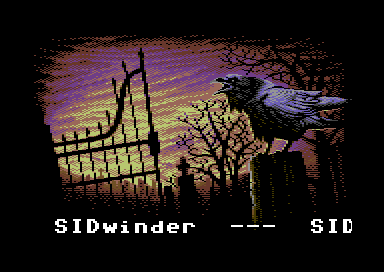
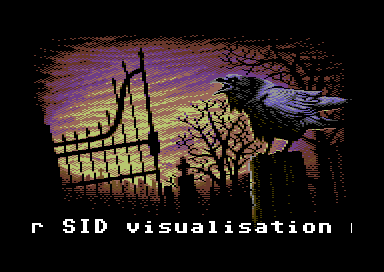
Now we can load/save and edit the scrolltext!

Changed region(s): [[0.0625, 0.7941, 0.9375, 0.8824]]

diff --git a/public/ui.js b/public/ui.js
@@ -837,6 +837,27 @@ class UIController {
                 <span class="date-preview" id="${config.id}-preview">Not set</span>
             </div>
         `;
+        } else if (config.type === 'textarea') {
+            // New textarea handling
+            html += `
+            <label class="option-label">${config.label}</label>
+            <div class="option-control">
+                <div class="textarea-container">
+                    <textarea 
+                        id="${config.id}" 
+                        maxlength="${config.maxLength || 255}"
+                        rows="3"
+                        placeholder="${config.description || ''}"
+                    >${config.default || ''}</textarea>
+                    ${config.loadSave ? `
+                        <div class="textarea-controls">
+                            <button type="button" class="load-text-btn" data-target="${config.id}">Load</button>
+                            <button type="button" class="save-text-btn" data-target="${config.id}">Save</button>
+                        </div>
+                    ` : ''}
+                </div>
+            </div>
+        `;
         }
 
         html += '</div>';
@@ -929,6 +950,18 @@ class UIController {
         document.querySelectorAll('.color-slider').forEach(slider => {
             slider.addEventListener('input', (e) => {
                 this.updateColorDisplay(e.target);
+            });
+        });
+        // Textarea load/save handlers
+        document.querySelectorAll('.load-text-btn').forEach(button => {
+            button.addEventListener('click', (e) => {
+                this.loadScrollText(e.target.getAttribute('data-target'));
+            });
+        });
+
+        document.querySelectorAll('.save-text-btn').forEach(button => {
+            button.addEventListener('click', (e) => {
+                this.saveScrollText(e.target.getAttribute('data-target'));
             });
         });
     }
@@ -1249,6 +1282,45 @@ class UIController {
 
         // Reset to attract mode
         this.initializeAttractMode();
+    }
+
+    loadScrollText(textareaId) {
+        const input = document.createElement('input');
+        input.type = 'file';
+        input.accept = '.txt';
+
+        input.onchange = (e) => {
+            const file = e.target.files[0];
+            if (file) {
+                const reader = new FileReader();
+                reader.onload = (e) => {
+                    const textarea = document.getElementById(textareaId);
+                    if (textarea) {
+                        textarea.value = e.target.result;
+                    }
+                };
+                reader.readAsText(file);
+            }
+        };
+
+        input.click();
+    }
+
+    saveScrollText(textareaId) {
+        const textarea = document.getElementById(textareaId);
+        if (!textarea) return;
+
+        const text = textarea.value;
+        const blob = new Blob([text], { type: 'text/plain' });
+        const url = URL.createObjectURL(blob);
+
+        const a = document.createElement('a');
+        a.href = url;
+        a.download = 'scrolltext.txt';
+        document.body.appendChild(a);
+        a.click();
+        document.body.removeChild(a);
+        URL.revokeObjectURL(url);
     }
 }
 

diff --git a/public/styles.css b/public/styles.css
@@ -1220,3 +1220,54 @@ body {
         justify-content: center;
     }
 }
+
+/* Textarea container styles */
+.textarea-container {
+    display: flex;
+    flex-direction: column;
+    gap: 8px;
+    width: 100%;
+}
+
+    .textarea-container textarea {
+        width: 100%;
+        min-height: 60px;
+        padding: 8px 12px;
+        border: 2px solid #dee2e6;
+        border-radius: 6px;
+        background: white;
+        color: #333;
+        font-family: 'Courier New', monospace;
+        font-size: 0.9em;
+        resize: vertical;
+        transition: all 0.2s;
+    }
+
+        .textarea-container textarea:focus {
+            outline: none;
+            border-color: #667eea;
+            box-shadow: 0 0 0 3px rgba(102, 126, 234, 0.1);
+        }
+
+.textarea-controls {
+    display: flex;
+    gap: 8px;
+}
+
+.load-text-btn, .save-text-btn {
+    padding: 6px 12px;
+    font-size: 0.85em;
+    background: #667eea;
+    color: white;
+    border: none;
+    border-radius: 4px;
+    cursor: pointer;
+    transition: all 0.2s;
+}
+
+    .load-text-btn:hover, .save-text-btn:hover {
+        background: #764ba2;
+        transform: translateY(-1px);
+        box-shadow: 0 2px 8px rgba(102, 126, 234, 0.3);
+    }
+

diff --git a/public/prg-builder.js b/public/prg-builder.js
@@ -515,6 +515,24 @@ class SIDwinderPRGExporter {
                         loadAddress: targetAddress,
                         name: `option_${optionConfig.id}`
                     });
+                } else if (optionConfig.type === 'textarea') {
+                    const textValue = element.value || optionConfig.default || '';
+
+                    // Convert to PETSCII and null-terminate
+                    const data = new Uint8Array(Math.min(textValue.length + 1, 255));
+
+                    for (let i = 0; i < textValue.length && i < data.length - 1; i++) {
+                        let petscii = textValue.charCodeAt(i);
+                        if (petscii >= 97 && petscii <= 122) petscii -= 96; // Convert to uppercase
+                        data[i] = petscii & 0xFF;
+                    }
+                    data[Math.min(textValue.length, data.length - 1)] = 0x00; // Null terminator
+
+                    optionComponents.push({
+                        data: data,
+                        loadAddress: targetAddress,
+                        name: `option_${optionConfig.id}`
+                    });
                 }
             }
         }
